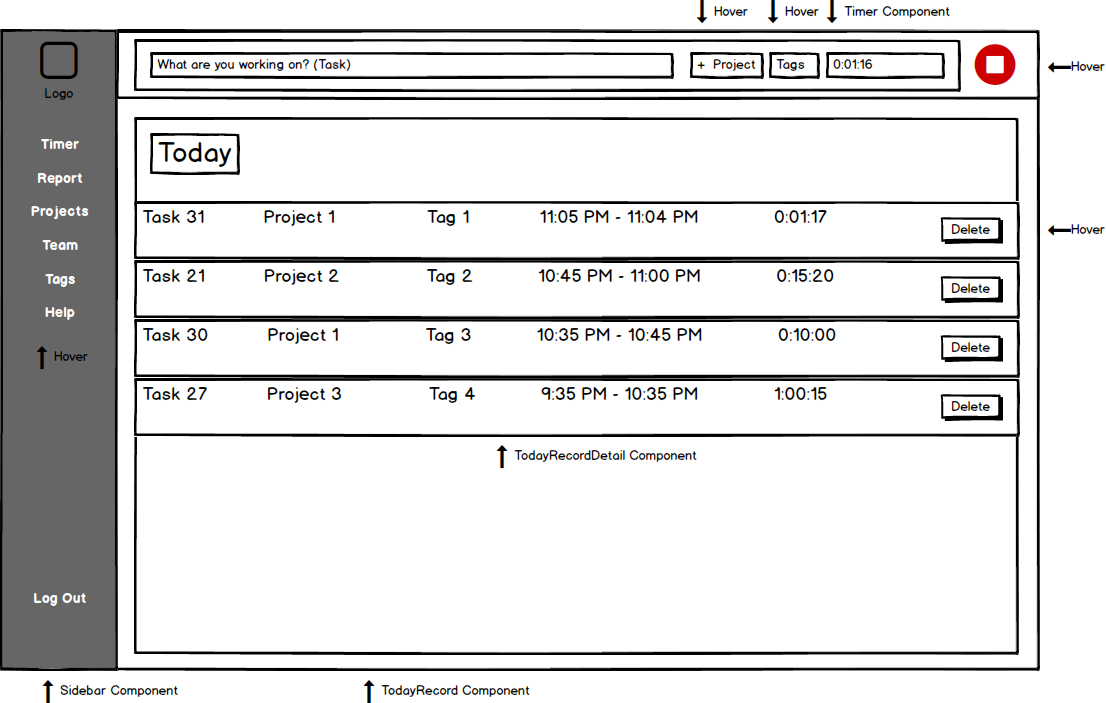
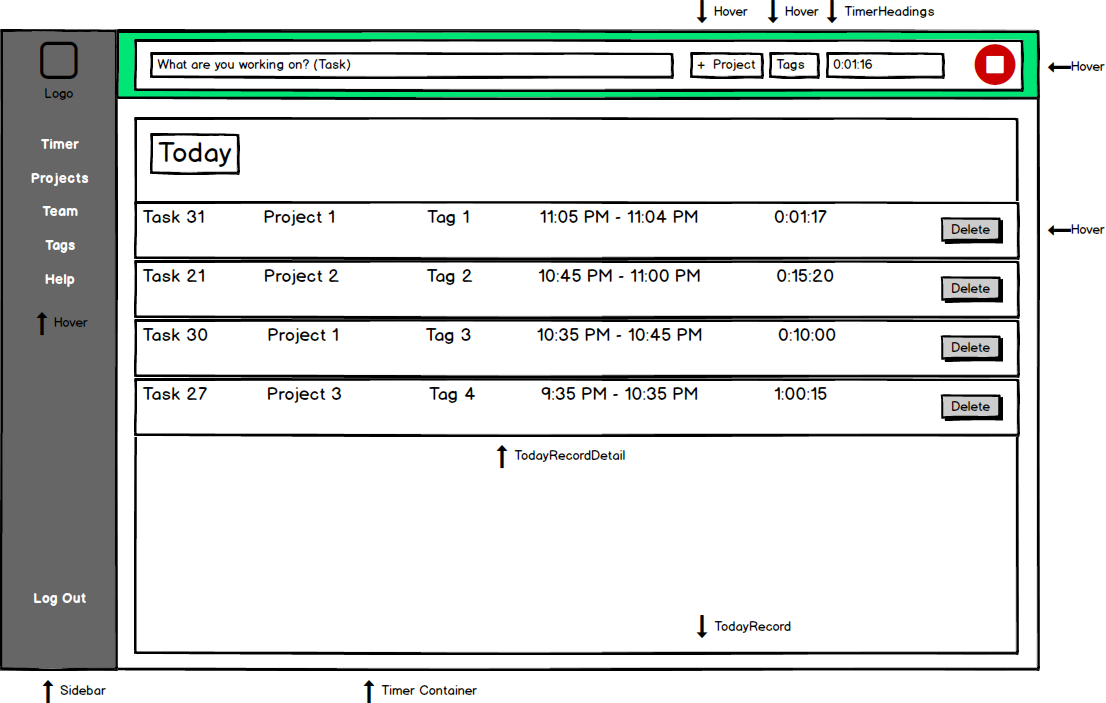
Update wireframes and component hierarchy

diff --git a/docs/component-hierarchy.md b/docs/component-hierarchy.md
@@ -1,1 +1,74 @@
-# Component Hierarchy
+## Component Hierarchy
+
+**HomeContainer**
+- Home
+- HomeHeadings
+  * IntroTimer
+  * Logo
+
+**AuthenticationContainer**
+- AuthForm
+- HomeHeadings
+  * IntroTimer
+  * Logo
+
+ **AppContainer**
+- Loading
+- Sidebar
+
+**TimerContainer**
+- TimerHeadings
+  * TimerForm
+    + ProjectForm
+    + TagForm
+- TodayRecord
+  * TodayRecordDetail
+
+**ProjectsContainer**
+- ProjectsHeadings
+  * ProjectSearch
+- Projects
+  * Project
+
+**ProjectContainer**
+- ProjectHeadings
+- Project
+
+**TeamsContainer**
+- TeamsHeadings
+  * TeamSearch
+- Team
+
+**TeamContainer**
+- TeamForm
+
+**TagsContainer**
+- TagSearch
+- AddTagForm
+
+**ProjectSearch**
++ AutoSearch
+* AutoSearchResults
+
+**TeamSearch**
++ AutoSearch
+* AutoSearchResults
+
+
+## Routes
+
+|Path   | Component   |
+|-------|-------------|
+| "/" | "HomeContainer" |
+| "/signup" | "AuthFormContainer" |
+| "/login" | "AuthFormContainer" |
+| "/app" | "AppContainer" |
+| "/app/timer" | "TimerContainer" |
+| "/app/timer/new-project" | "NewProject" |
+| "/app/projects" | "ProjectsContainer" |
+| "/app/projects/:projectId | "ProjectContainer |
+| "/app/teams" | "TeamsContainer" |
+| "/app/teams/:teamId" | "TeamContainer" |
+| "/app/tags" | "TagsContainer" |
+| "/project-search" | "ProjectSearch" |
+| "/tag-search" | "TagSearch" |
